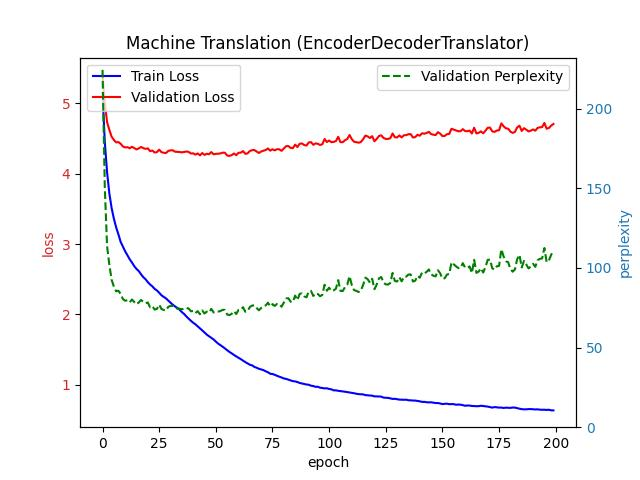
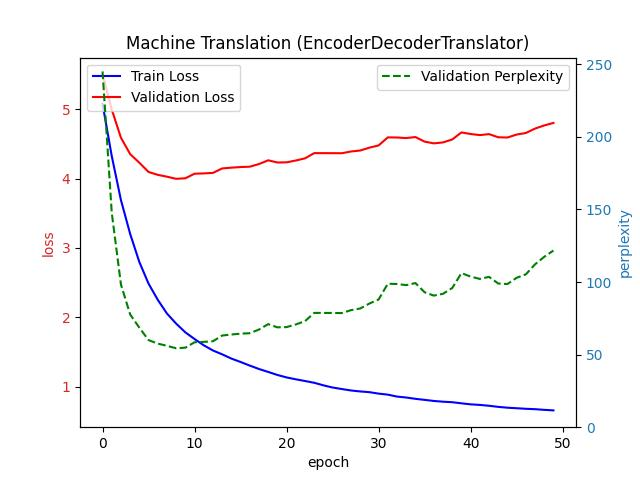
feature[ch10]: Enhance training efficiency by initializing decoder's hidden state with encoder's hidden state

diff --git a/chapter-10_modern-recurrent-neural-networks/9_machine_translation/machine_translation.py b/chapter-10_modern-recurrent-neural-networks/9_machine_translation/machine_translation.py
@@ -486,12 +486,16 @@ class Encoder(nn.Module):
         """
         Parameters:
         - num_layers: the number of layers.
-        - num_directions: the number of directions (1 or 2).
+        - num_directions: the number of directions (1 or 2). Currently, only unidirectional
+            encoder is supported.
         - num_embedding_dims: the number of embedding dimensions.
         - num_hidden_units: the number of hidden units.
         - dropout: the dropout rate.
         - vocab: the source vocabulary.
         """
+        if num_directions != 1:
+            raise NotImplementedError("only unidirectional encoder is supported")
+
         super().__init__()
 
         self._embedding = nn.Embedding(
@@ -515,8 +519,6 @@ class Encoder(nn.Module):
         """
         Parameters:
         - source: the input (source) tensor with the shape of (batch_size, num_steps)
-        - H_prev: the hidden state of the previous time step, with the shape of
-            (num_directions * num_layers, num_steps, num_hidden_units)
 
         Returns a tuple of two tensors:
         - tensor #1: the output with the shape of
@@ -580,13 +582,13 @@ class Decoder(nn.Module):
     def forward(
         self,
         target_X: torch.Tensor,
-        C: torch.Tensor,
+        H_encoder: torch.Tensor,
         H_prev: torch.Tensor | None = None,
     ) -> tuple[torch.Tensor, torch.Tensor]:
         """
         Parameters:
         - target_X: the input (target) tensor with the shape of (batch_size, num_steps)
-        - C: the context tensor from the encoder with the shape of
+        - H_encoder: the hidden state at the final time step of the encoder with the shape of
             (num_encoder_directions * num_layers, batch_size, num_hidden_units)
         - H_prev: the hidden state of the previous time step, with the shape of
             (num_layers, batch_size, num_hidden_units)
@@ -603,9 +605,11 @@ class Decoder(nn.Module):
             self._num_layers, self._num_encoder_directions, self._num_hidden_units,
             self._num_embedding_features, self._vocab.size)
 
-        assert_shape('C', C, (num_encoder_directions * num_layers, batch_size, num_hidden_units))
-        C = C.view(num_layers, batch_size, num_hidden_units * num_encoder_directions)
-        context = C[-1] # Only the final layer's hidden state from the encoder is needed
+        assert_shape('H_encoder', H_encoder,
+                     (num_encoder_directions * num_layers, batch_size, num_hidden_units))
+        H_encoder = H_encoder.view(
+            num_layers, batch_size, num_hidden_units * num_encoder_directions)
+        context = H_encoder[-1] # Only the final layer's hidden state from the encoder is needed
         assert_shape('context', context, (batch_size, num_hidden_units * num_encoder_directions))
         # Repeat the context for each time step (along the middle dimension)
         context = context.view(batch_size, 1, num_hidden_units * num_encoder_directions
@@ -613,7 +617,11 @@ class Decoder(nn.Module):
         assert_shape('context', context,
                      (batch_size, num_steps, num_hidden_units * num_encoder_directions))
 
-        if H_prev is not None:
+        if H_prev is None:
+            # We directly use the hidden state at the final time step of the encoder to
+            # initialize the hidden state of the decoder.
+            H_prev = H_encoder
+        else:
             assert_shape('H_prev', H_prev, (num_layers, batch_size, num_hidden_units))
 
         X = self._embedding(target_X)
@@ -690,11 +698,12 @@ class EncoderDecoderTranslator(nn.Module):
             self._target_vocab.size)
 
         batch_size, _ = source.shape
-        _, C = self._encoder(source)
-        assert_shape('C', C, (num_encoder_directions * num_layers, batch_size, num_hidden_units))
+        _, H_encoder = self._encoder(source)
+        assert_shape('H_encoder', H_encoder,
+                     (num_encoder_directions * num_layers, batch_size, num_hidden_units))
 
         _, num_steps = target_X.shape
-        output, H = self._decoder(target_X, C)
+        output, H = self._decoder(target_X, H_encoder)
         assert_shape('output', output, (batch_size, num_steps, target_vocab_size))
         assert_shape('H', H, (num_layers, batch_size, num_hidden_units))
 
@@ -733,7 +742,7 @@ class EncoderDecoderTranslator(nn.Module):
         source = TextSequenceDataset.tokenize([words], source_vocab)
         assert_shape('source', source, (batch_size, len(words)+1)) # 1 is for <eos>
 
-        _, C = self._encoder(source)
+        _, H_encoder = self._encoder(source)
 
         target_X = torch.tensor([target_vocab.bos_token], device=device).view(1, -1)
         assert_dimensions('target_X', target_X, 2) # batch_size, num_step (which are both one)
@@ -742,7 +751,7 @@ class EncoderDecoderTranslator(nn.Module):
             inputs = target_X[:, -1:]
             assert_shape('inputs', inputs, (batch_size, num_step))
 
-            output, H = self._decoder(inputs, C, H)
+            output, H = self._decoder(inputs, H_encoder, H)
             assert_shape('output', output, (batch_size, num_step, target_vocab.size))
 
             token_pred = output.argmax(dim=-1)
@@ -1094,7 +1103,7 @@ def evaluate(
 def main(
     num_preview: int = 1
 ) -> None:
-    max_epochs = 200
+    max_epochs = 50
     learning_rate = 0.005
     batch_size = 128
     num_steps = 32
@@ -1169,26 +1178,26 @@ if __name__ == "__main__":
 
     main()
 
-    # epoch #199, train_loss = 0.634, validate_loss = 4.709, perplexity = 110.91, bleu_scores = ['0.79', '0.00', '0.00', '1.00']
-    # device = cuda, elapsed time: 273.7 seconds
+    # epoch #49, train_loss = 0.656, validate_loss = 4.802, perplexity = 121.73, bleu_scores = ['0.47', '0.00', '0.62', '0.00']
+    # device = cuda, elapsed time: 89.9 seconds
     # prediction: #0
-    #     source = 'tom is crying , too .'
-    #     target = '湯姆也在哭。'
-    #     prediction = '汤姆也在哭。'
-    #     bleu = 0.79
+    #     source = 'there's nothing that can be done .'
+    #     target = '没办法。'
+    #     prediction = '没办法的关系。'
+    #     bleu = 0.47
     # prediction: #1
-    #     source = 'you can see many animals in this forest .'
-    #     target = '你可以在这片森林里看到很多动物。'
-    #     prediction = '你能看到这个很棒的。'
+    #     source = 'i'm sober .'
+    #     target = '我很清醒。'
+    #     prediction = '我很清理。'
     #     bleu = 0.00
     # prediction: #2
-    #     source = 'tom is now a software engineer .'
-    #     target = '湯姆現在是軟體工程師。'
-    #     prediction = '湯姆現在是軟體一個高中家。'
-    #     bleu = 0.00
+    #     source = 'he sometimes comes to see me .'
+    #     target = '他有时会来看我。'
+    #     prediction = '他有时会来。'
+    #     bleu = 0.62
     # prediction: #3
-    #     source = 'do you think animals have souls ?'
-    #     target = '你认为动物有灵魂吗？'
-    #     prediction = '你认为动物有灵魂吗？'
-    #     bleu = 1.00
+    #     source = 'tom and mary couldn't help me do that .'
+    #     arget = '湯姆和瑪麗不能幫我去做。'
+    #     prediction = '湯姆幫瑪麗不能幫忙。'
+    #     bleu = 0.00
     # done!
